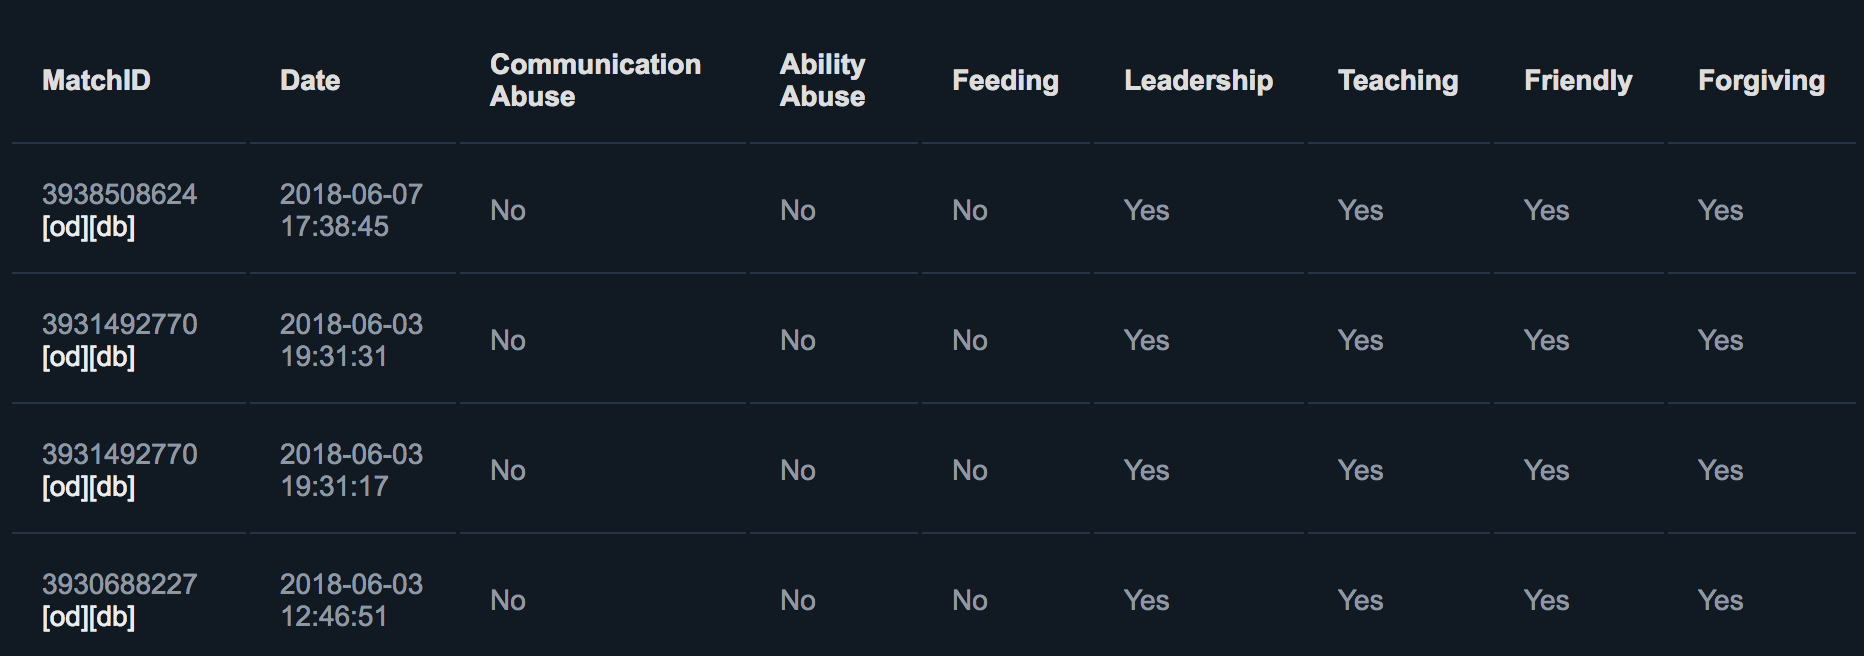
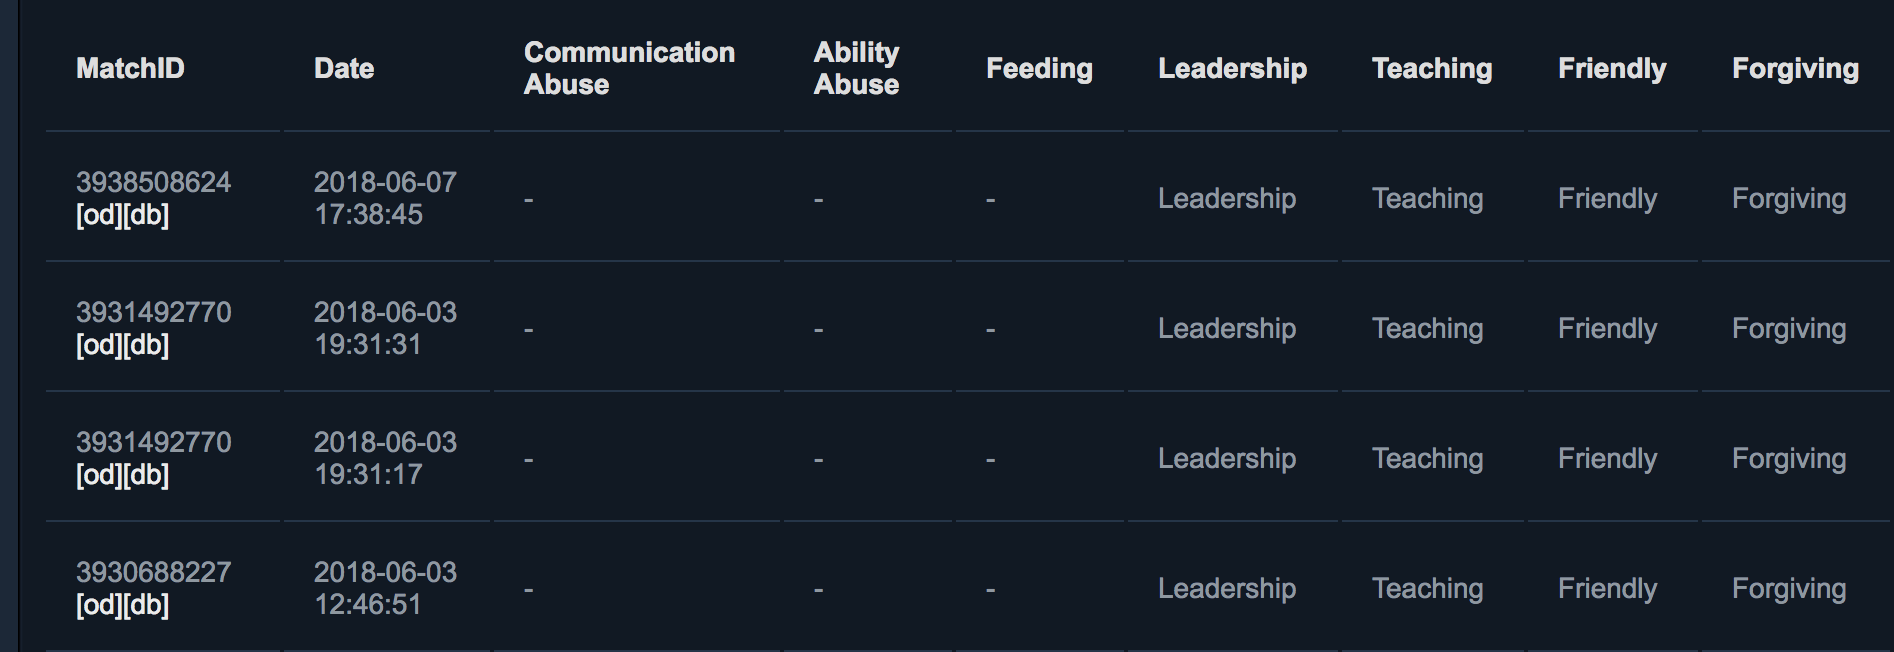
Update to convert yes/no to specific reports

diff --git a/src/content.js b/src/content.js
@@ -48,29 +48,57 @@ function addMatchLinks(element, matchId) {
     element.appendChild(a)
 }
 
+function updateNode(row, columnIndex, text) {
+  var currentNode = row.children[columnIndex];
+  var newNode = document.createElement('td');
+  newNode.innerHTML = text;
+  row.replaceChild(newNode, currentNode)
+}
+
+function updateYesNoNode(row, columnIndex, text) {
+  var node = row.children[columnIndex];
+
+  if (node.textContent == "Yes") {
+    updateNode(row, columnIndex, text);
+  } else {
+    updateNode(row, columnIndex, "-");
+  }
+}
+
 function convert() {
-  var elements = document.getElementsByTagName('*');
+  var table = document.getElementsByClassName("generic_kv_table");
+  var rows = Array.from(table[0].children[0].children);
 
-  for (var i = 0; i < elements.length; i++) {
-      var element = elements[i];
+  var headerTitles = Array.from(rows.shift().children).map((th) => th.textContent);
 
-      for (var j = 0; j < element.childNodes.length; j++) {
-          var node = element.childNodes[j];
+  var matchIdIndex = headerTitles.indexOf("MatchID");
+  var dateIndex = headerTitles.indexOf("Date");
 
-          if (node.nodeType === 3) {
-              var text = node.nodeValue;
-              var date = text.match(/1\d{9}/g)
-              var matchId = text.match(/[2-9]\d{9}/g)
+  var report_communicationAbuseIndex = headerTitles.indexOf("Communication Abuse");
+  var report_abilityAbuseIndex = headerTitles.indexOf("Ability Abuse");
+  var report_feedingIndex = headerTitles.indexOf("Feeding");
+  
+  var commend_leadershipIndex = headerTitles.indexOf("Leadership");
+  var commend_teachingIndex = headerTitles.indexOf("Teaching");
+  var commend_friendlyIndex = headerTitles.indexOf("Friendly");
+  var commend_forgivingIndex = headerTitles.indexOf("Forgiving");
+  
+  for (var i = 0; i < rows.length; i++) {
+    var row = rows[i].children;
 
-              var replacedText = undefined;
+    var matchIdNode = row[matchIdIndex];
+    addMatchLinks(matchIdNode, matchIdNode.textContent);
 
-              if (date) {
-                  var replacedText = text.replace(/1\d{9}/g, timeConverter(parseInt(date)));
-                  element.replaceChild(document.createTextNode(replacedText), node);
-              } else if (matchId) {
-                  addMatchLinks(element, matchId)               
-              }
-          }
-      }
+    var dateNode = row[dateIndex];
+    updateNode(rows[i], dateIndex, timeConverter(dateNode.textContent))
+
+    updateYesNoNode(rows[i], report_communicationAbuseIndex, "Communication Abuse");
+    updateYesNoNode(rows[i], report_abilityAbuseIndex, "Ability Abuse");
+    updateYesNoNode(rows[i], report_feedingIndex, "Feeding");
+
+    updateYesNoNode(rows[i], commend_leadershipIndex, "Leadership");
+    updateYesNoNode(rows[i], commend_teachingIndex, "Teaching");
+    updateYesNoNode(rows[i], commend_friendlyIndex, "Friendly");
+    updateYesNoNode(rows[i], commend_forgivingIndex, "Forgiving");
   }
 }
